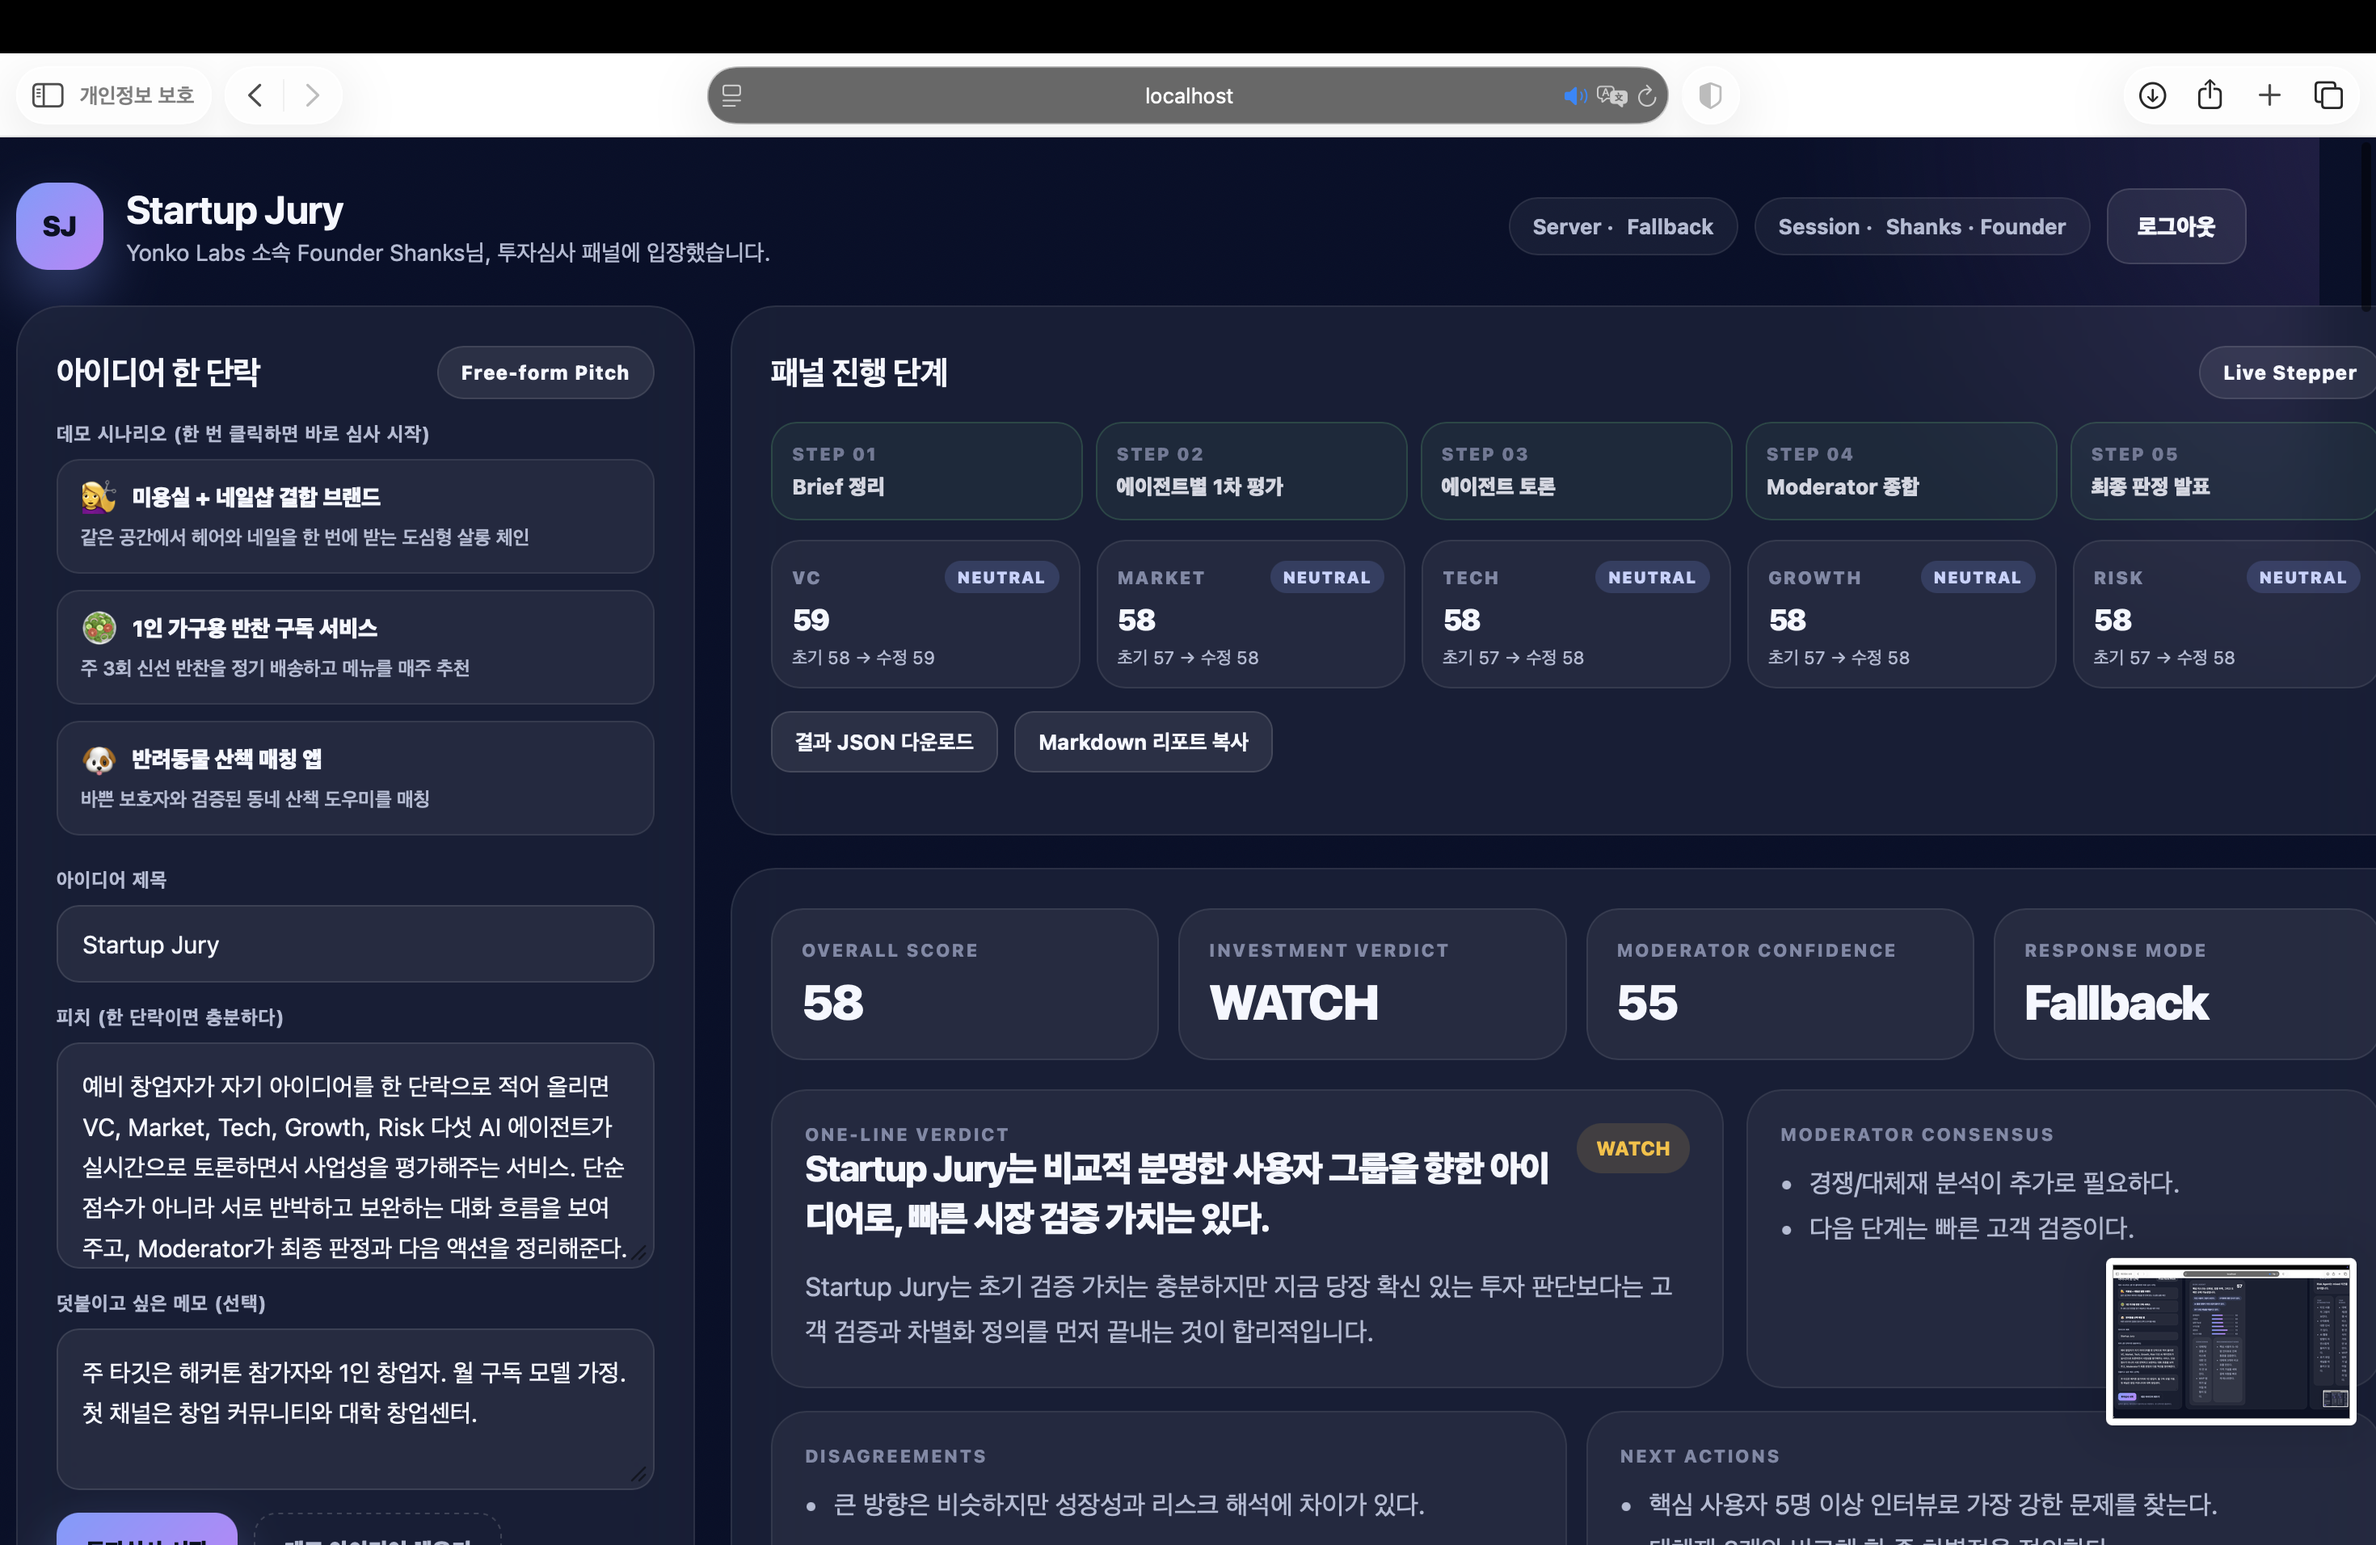
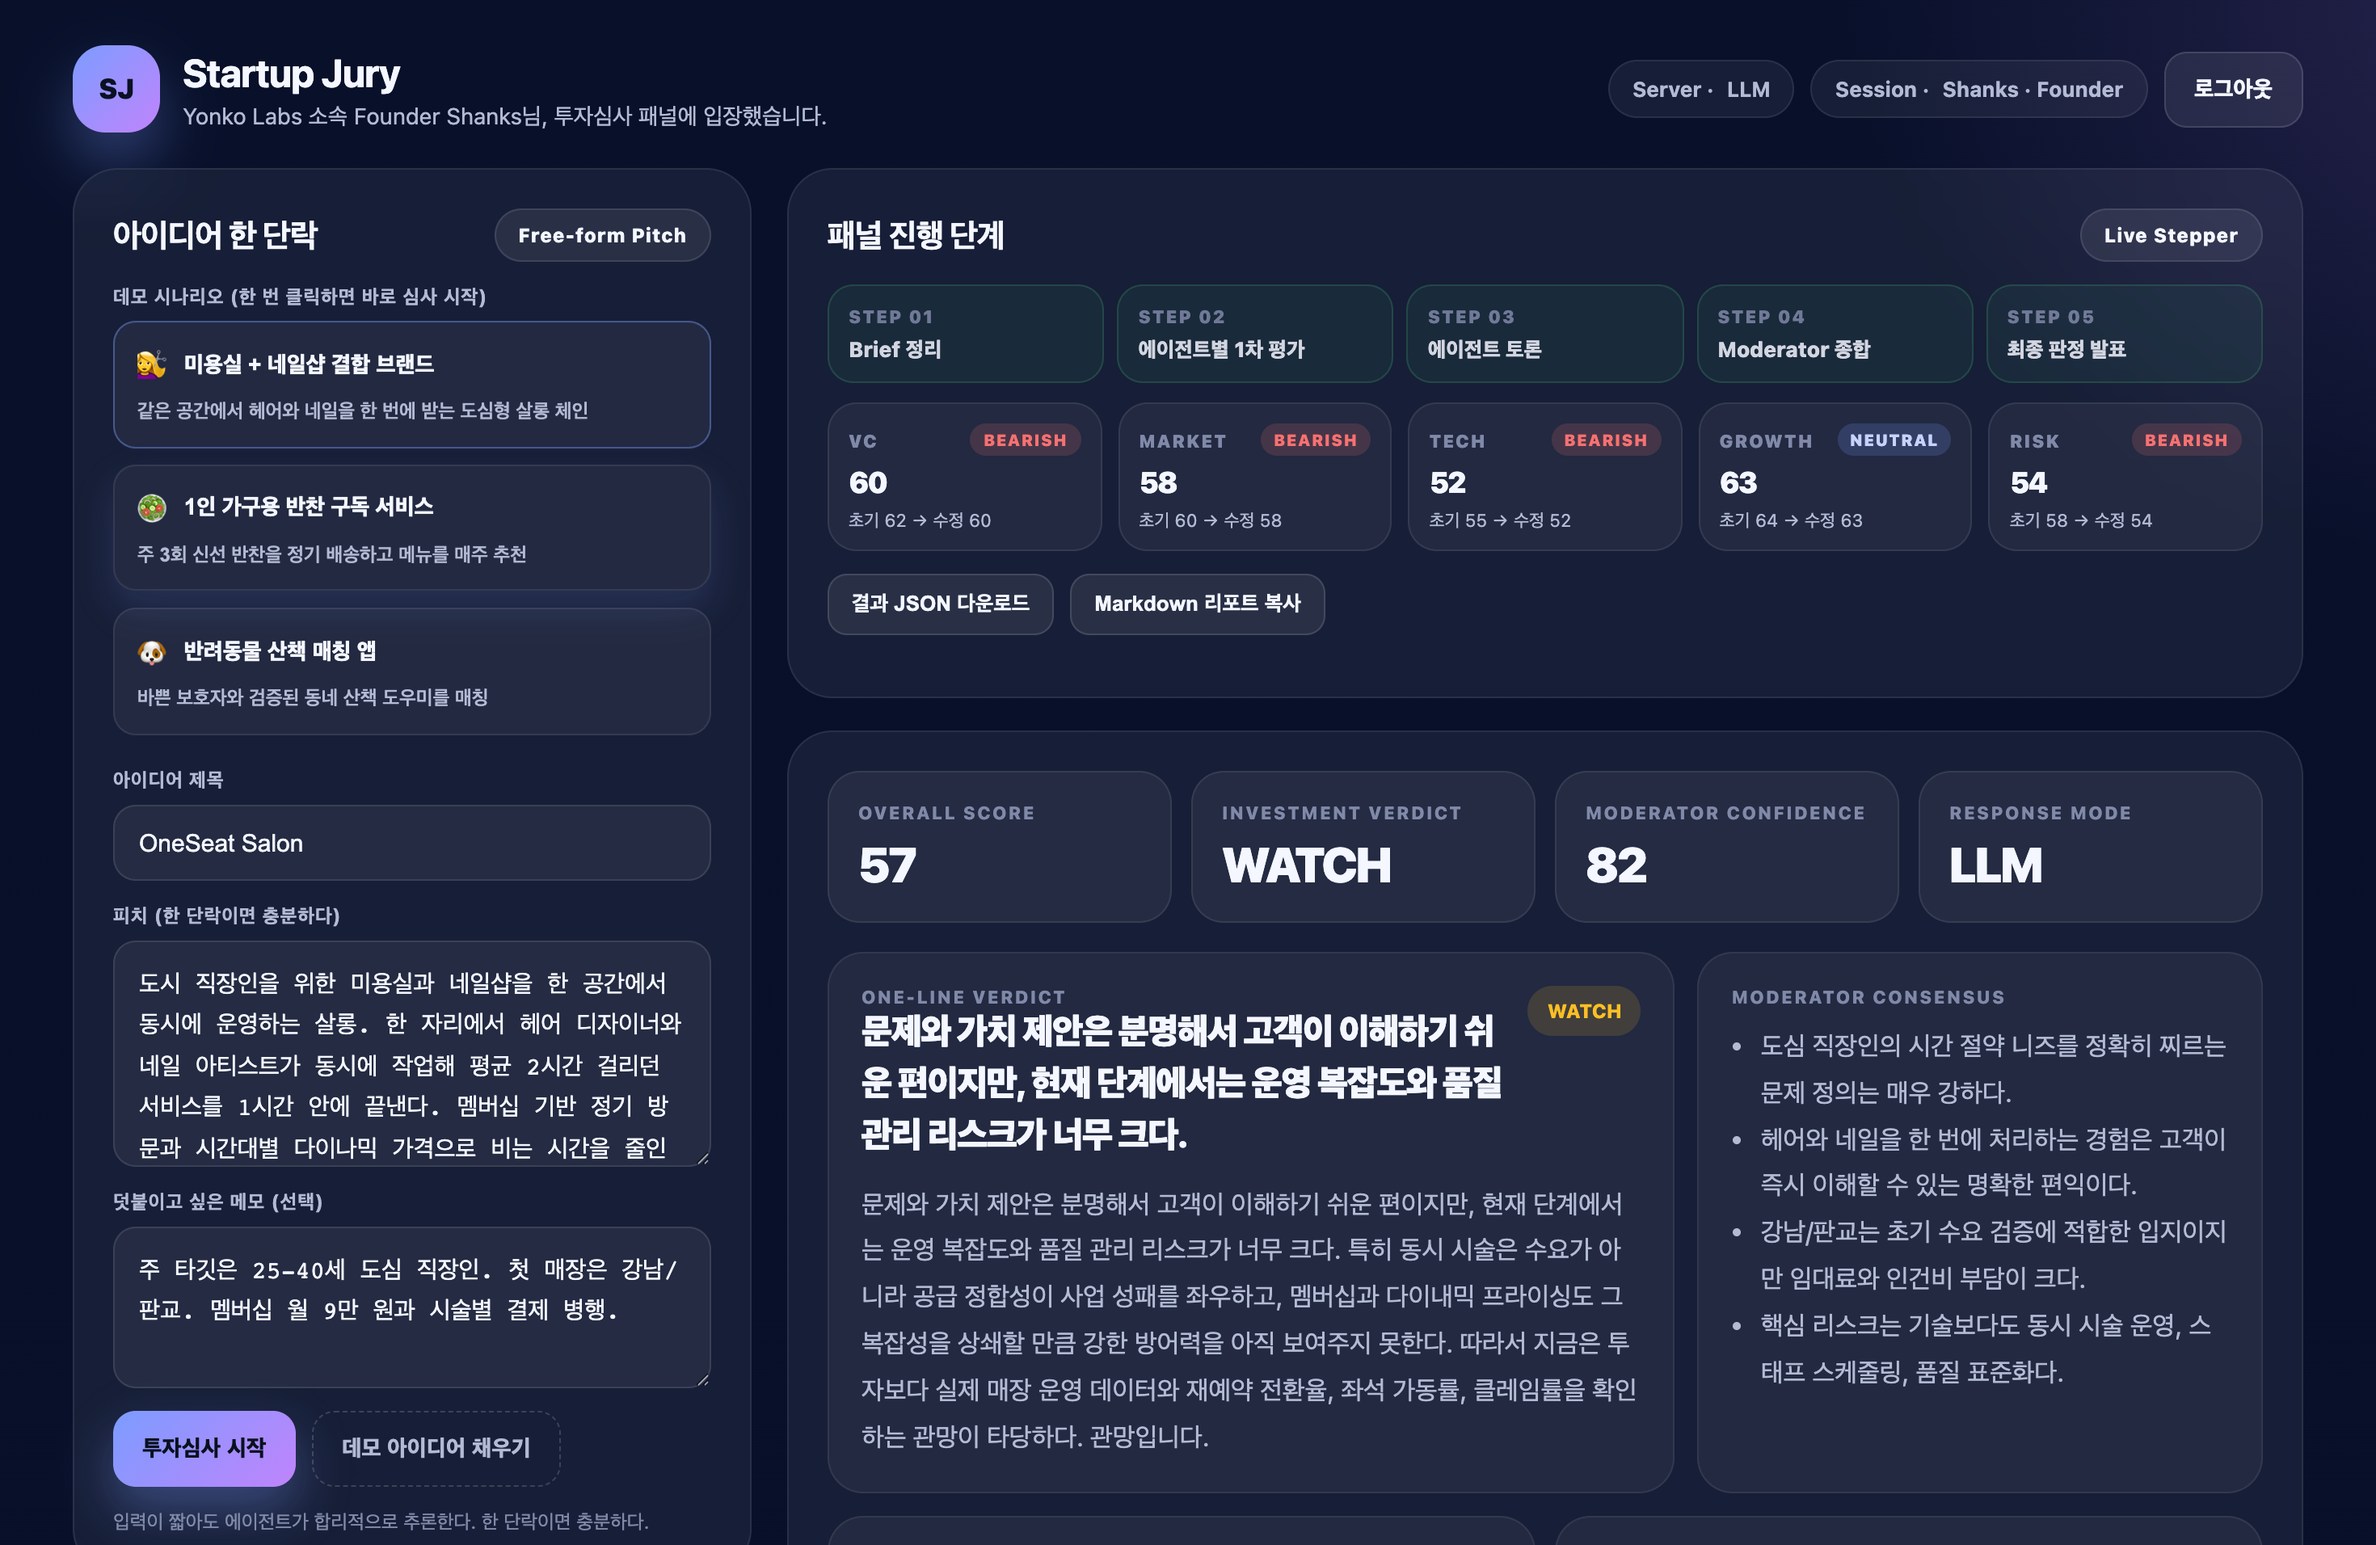
chore: pre-publish fixes - LLM error notice, layout, screenshots
- show why an LLM call failed (provider message, key fragments masked)
  instead of silently showing rule-based results
- README warns against deploying publicly with a key: no auth, no rate
  limit, open CORS
- grid tracks use minmax(0, 1fr) and card grids wrap by width, so the
  dashboard no longer overflows at 1470px or 390px and long LLM text
  in scorecards is readable
- retake README screenshots from a real gpt-5.4-mini run; the old ones
  showed the scripted transcript removed in #3
- drop unrelated OpenClaw entries from .gitignore

diff --git a/public/index.html b/public/index.html
@@ -104,7 +104,7 @@
 
       .hero-grid {
         display: grid;
-        grid-template-columns: repeat(3, 1fr);
+        grid-template-columns: repeat(3, minmax(0, 1fr));
         gap: 10px;
         margin-top: 26px;
       }
@@ -180,7 +180,7 @@
 
       .stepper {
         display: grid;
-        grid-template-columns: repeat(5, 1fr);
+        grid-template-columns: repeat(5, minmax(0, 1fr));
         gap: 8px;
         margin-bottom: 12px;
       }
@@ -219,7 +219,7 @@
 
       .panel-strip {
         display: grid;
-        grid-template-columns: repeat(5, 1fr);
+        grid-template-columns: repeat(5, minmax(0, 1fr));
         gap: 10px;
         margin-bottom: 14px;
       }
@@ -352,7 +352,7 @@
 
       .layout {
         display: grid;
-        grid-template-columns: 420px 1fr;
+        grid-template-columns: 420px minmax(0, 1fr);
         gap: 22px;
       }
 
@@ -379,7 +379,7 @@
 
       .summary-grid {
         display: grid;
-        grid-template-columns: repeat(4, 1fr);
+        grid-template-columns: repeat(4, minmax(0, 1fr));
         gap: 12px;
       }
 
@@ -405,7 +405,7 @@
 
       .hero-summary {
         display: grid;
-        grid-template-columns: 1.2fr 0.8fr;
+        grid-template-columns: minmax(0, 1.2fr) minmax(0, 0.8fr);
         gap: 14px;
         margin-top: 18px;
       }
@@ -445,7 +445,7 @@
       .pill.watch { background: rgba(251,191,36,0.14); color: var(--yellow); }
       .pill.pass { background: rgba(248,113,113,0.14); color: var(--red); }
 
-      .mini-grid { display: grid; grid-template-columns: repeat(2, 1fr); gap: 12px; }
+      .mini-grid { display: grid; grid-template-columns: repeat(auto-fit, minmax(200px, 1fr)); gap: 12px; }
       .list-title {
         font-size: 11px;
         font-weight: 800;
@@ -556,7 +556,7 @@
         50% { opacity: 1; transform: translateY(-2px); }
       }
 
-      .agents-grid { display: grid; grid-template-columns: repeat(2, 1fr); gap: 14px; }
+      .agents-grid { display: grid; grid-template-columns: repeat(auto-fill, minmax(min(100%, 340px), 1fr)); gap: 14px; }
       .agent-card {
         border-radius: 22px;
         padding: 18px;
@@ -599,7 +599,7 @@
       .debate-title { font-size: 16px; font-weight: 800; margin-bottom: 6px; }
       .debate-meta { color: var(--muted); font-size: 12px; margin-bottom: 10px; }
 
-      .section-grid { display: grid; grid-template-columns: 1fr 1fr; gap: 16px; }
+      .section-grid { display: grid; grid-template-columns: minmax(0, 1fr) minmax(0, 1fr); gap: 16px; }
 
       .empty-state {
         display: grid;
@@ -624,11 +624,12 @@
 
       @media (max-width: 1080px) {
         .login-card, .layout, .hero-summary, .section-grid { grid-template-columns: 1fr; }
-        .summary-grid, .agents-grid, .mini-grid, .hero-grid { grid-template-columns: 1fr 1fr; }
+        .summary-grid, .hero-grid { grid-template-columns: repeat(2, minmax(0, 1fr)); }
         .left-pane { position: static; }
       }
       @media (max-width: 720px) {
         .summary-grid, .agents-grid, .mini-grid, .hero-grid { grid-template-columns: 1fr; }
+        .stepper, .panel-strip { grid-template-columns: repeat(auto-fill, minmax(120px, 1fr)); }
         .topbar { flex-direction: column; align-items: flex-start; }
       }
     </style>
@@ -1322,7 +1323,11 @@
         document.getElementById('overall-score').textContent = data.finalAssessment.overallScore;
         document.getElementById('overall-verdict').textContent = data.finalAssessment.investmentVerdict.toUpperCase();
         document.getElementById('moderator-confidence').textContent = data.moderator.confidence;
-        document.getElementById('response-mode').textContent = data.meta.usedLLM ? 'LLM' : 'Fallback';
+        document.getElementById('response-mode').textContent = data.meta.usedLLM ? 'LLM' : data.meta.llmError ? 'Fallback (LLM 실패)' : 'Fallback';
+        if (data.meta.llmError) {
+          errorBox.classList.remove('hidden');
+          errorBox.textContent = `LLM 호출에 실패해 규칙 기반 결과를 표시합니다. 원인: ${data.meta.llmError}`;
+        }
         document.getElementById('one-liner').textContent = data.finalAssessment.oneLiner;
         const { investmentVerdict, scoreVerdict } = data.finalAssessment;
         const scoreNote = scoreVerdict && scoreVerdict !== investmentVerdict

diff --git a/test/api.test.ts b/test/api.test.ts
@@ -72,7 +72,8 @@ test('POST /evaluate rejects an invalid body with 400', async () => {
 
 test('POST /evaluate falls back to rules and reports the error when the LLM fails', async () => {
   const failing = await listen((_req, res) => {
-    res.writeHead(500).end();
+    res.writeHead(401, { 'Content-Type': 'application/json' });
+    res.end(JSON.stringify({ error: { message: 'Incorrect API key provided: sk-proj-abc123****wxyz.' } }));
   });
   config.openAiApiKey = 'test-key';
   config.openAiBaseUrl = failing.url;
@@ -81,7 +82,9 @@ test('POST /evaluate falls back to rules and reports the error when the LLM fail
     assert.equal(res.status, 200);
     const body = await res.json();
     assert.equal(body.meta.usedLLM, false);
-    assert.match(body.meta.llmError, /500/);
+    assert.match(body.meta.llmError, /401/);
+    assert.match(body.meta.llmError, /Incorrect API key provided/);
+    assert.doesNotMatch(body.meta.llmError, /abc123|wxyz/, 'key fragments are masked');
   } finally {
     config.openAiApiKey = '';
     failing.server.close();

diff --git a/src/llmEvaluator.ts b/src/llmEvaluator.ts
@@ -104,7 +104,14 @@ async function chatJson<T>(usage: Usage, system: string, user: string): Promise<
   });
 
   if (!response.ok) {
-    throw new Error(`OpenAI request failed: ${response.status} ${response.statusText}`);
+    // The provider's message says what went wrong (bad key, unknown model, ...).
+    // It can quote part of the key, so key-like strings are masked.
+    const detail = await response
+      .json()
+      .then((body: any) => String(body?.error?.message ?? ''))
+      .catch(() => '');
+    const masked = detail.replace(/sk-[\w*.-]+/g, 'sk-…').slice(0, 200);
+    throw new Error(`LLM request failed: ${response.status} ${response.statusText}${masked ? ` - ${masked}` : ''}`);
   }
 
   const data = (await response.json()) as any;

diff --git a/README.md b/README.md
@@ -39,6 +39,9 @@ To use an LLM, copy `.env.example` to `.env` and set `OPENAI_API_KEY`. Any OpenA
 | `OPENAI_REASONING_EFFORT` | (model default) | Optional, for reasoning models |
 | `DEBATE_ROUNDS` | `2` | Debate rounds in LLM mode (1–3) |
 
+> **Run it locally.** The server has no authentication, no rate limit and allows any origin (CORS).
+> If you deploy it somewhere public with `OPENAI_API_KEY` set, anyone who finds it can spend your API credits, 16 calls per evaluation.
+
 ## How it works
 
 The reviewers are VC, Market, Tech, Growth and Risk agents, plus a Moderator.
@@ -108,7 +111,7 @@ An invalid body returns `400` with the validation details.
 ## UI
 
 Pick a demo scenario or type a pitch, watch the panel, then export the result as JSON or copy a Markdown report.
-The UI text is Korean.
+The UI text is Korean. The screenshots come from a real gpt-5.4-mini run of the OneSeat Salon scenario.
 
 | Debate | Scorecards | Verdict |
 |---|---|---|
@@ -153,6 +156,8 @@ npm run build && npm start   # production build in dist/
   and a moderator who makes the final call. The pitch is fenced against prompt injection and the UI escapes model output.
 - Default model is now gpt-5.4-mini (temperature is no longer forced, so GPT-5-family models work), the moderator's verdict words are defined,
   responses report token usage, and `/agents` reads the shared agent definitions.
+- The UI shows why an LLM call failed instead of silently falling back, the layout no longer overflows on laptop and phone widths,
+  and the screenshots were retaken from a real LLM run (the old ones showed the removed scripted transcript).
 
 ## License
 
